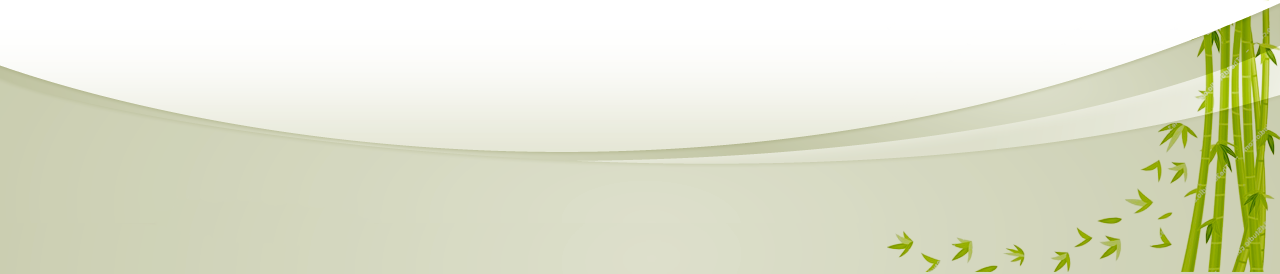
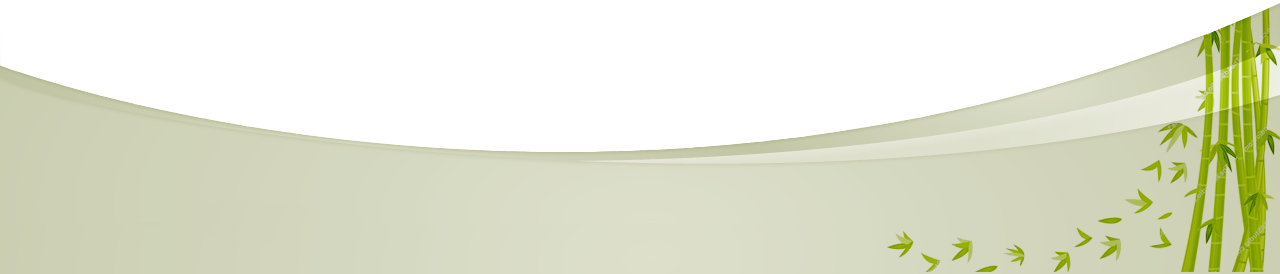
ee

Changed region(s): [[0.125, 0.3796, 0.75, 0.5547]]

diff --git a/resources/csssheet.css b/resources/csssheet.css
@@ -21,7 +21,7 @@ body{
   margin-left: auto;
   margin-right: auto;
   padding-bottom: 80px;
-  margin-bottom: -90px;
+  margin-bottom: -100px;
   padding:0 0 35px 0 ;
   border-bottom-right-radius: 20px;
   border-bottom-left-radius: 20px;
@@ -164,9 +164,9 @@ body{
   color:white;          
   width:100%;
   margin-bottom: 0px; 
-  padding-top: 120px;
+  padding-top: 150px;
   background-size: cover;
-  background-position: bottom;
+  background-position: right bottom;
 
     background-clip: text;
     color: transparent;
